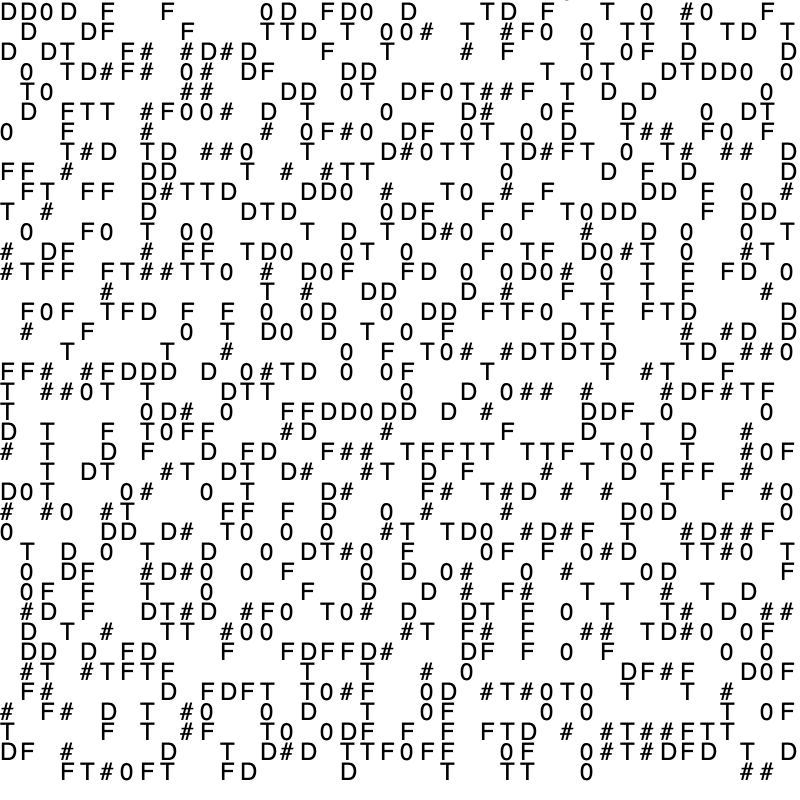
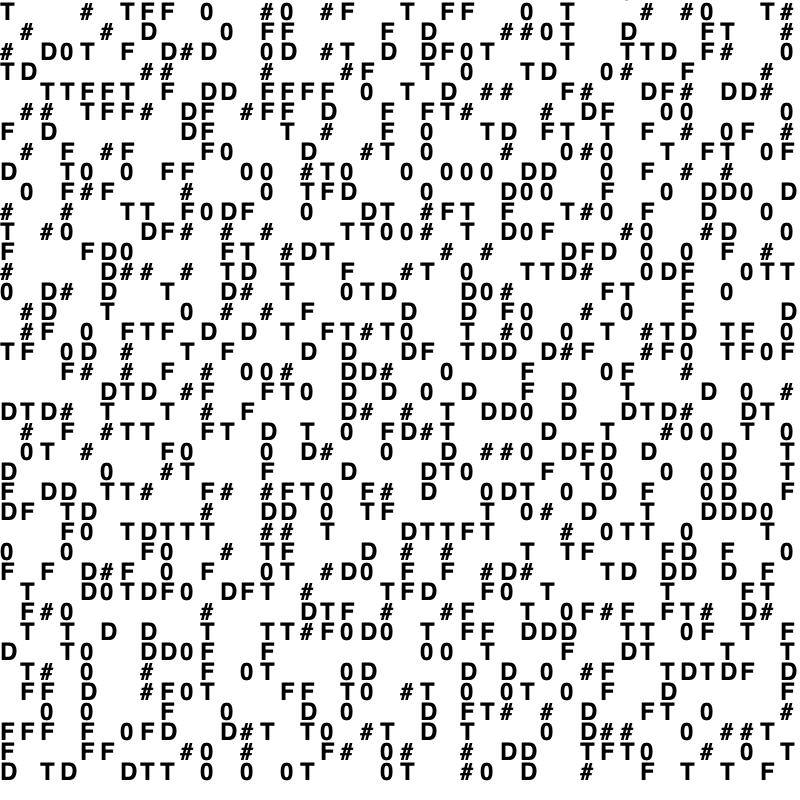
all examples

Changed region(s): [[0.0, 0.0, 1.0, 1.0]]

diff --git a/smallimage.js b/smallimage.js
@@ -1,14 +1,20 @@
 let shares = [];
+let sharesPolka = [];
+let sharesText = [];
 let slider;
 
 function preload(){
   shares.push(loadImage("img/fdt_share0.png"));
   shares.push(loadImage("img/fdt_share1.png"));
+  sharesPolka.push(loadImage("img/fdt_polka_share0.png"));
+  sharesPolka.push(loadImage("img/fdt_polka_share1.png"));
+  sharesText.push(loadImage("img/fdt_text_share0.png"));
+  sharesText.push(loadImage("img/fdt_text_share1.png"));
 }
 
 function setup() {
   let w = 600;
-  let h = 450;
+  let h = 800;
   createCanvas(w,h);
   
   let maxSlider = shares[0].width+100;
@@ -22,8 +28,14 @@ function draw() {
   text("drag me around",20,10);
   push();
   translate(10,55);
-  scale(1,1);
+  scale(1.2,1.2);
   image(shares[0],0,0);
   image(shares[1],slider.value(),0);
+  translate(0,220);
+  image(sharesPolka[0],0,0, shares[0].width, shares[0].height);
+  image(sharesPolka[1],slider.value(),0, shares[0].width, shares[0].height);
+  translate(0,220);
+  image(sharesText[0],0,0, shares[0].width, shares[0].height);
+  image(sharesText[1],slider.value(),0, shares[0].width, shares[0].height);
   pop();
 }

diff --git a/sketch.js b/sketch.js
@@ -15,15 +15,15 @@ function setup() {
   let h = 800;
   createCanvas(w,h);
   makeBW();
-  let vc = new NaorShamir(imgB, 2,2, 20, SubPixel.drawPolka);
+  let vc = new NaorShamir(imgB, 2,2, 20, SubPixel.drawText);
   for(let i=0;i<vc.shares.length;i++) vc.shares[i].initFbo();
   shares = vc.shares;
 
   slider = createSlider(0,shares[0].getRenderWidth()+100);
   slider.position(10,10);
 
-  save(shares[0].pg, "fdt_polka_share0.png");
-  save(shares[0].pg, "fdt_polka_share1.png");
+  //save(shares[0].pg, "fdt_text_share0.png");
+  //save(shares[1].pg, "fdt_text_share1.png");
 }
 
 function draw() {

diff --git a/libraries/horcrux/SubPixel.js b/libraries/horcrux/SubPixel.js
@@ -24,6 +24,7 @@ class SubPixel{
 
     static drawText(pg){
         pg.push();
+        pg.textStyle(BOLD);
         pg.text(random(this.alphabet),0,0);
         pg.pop();
     }
